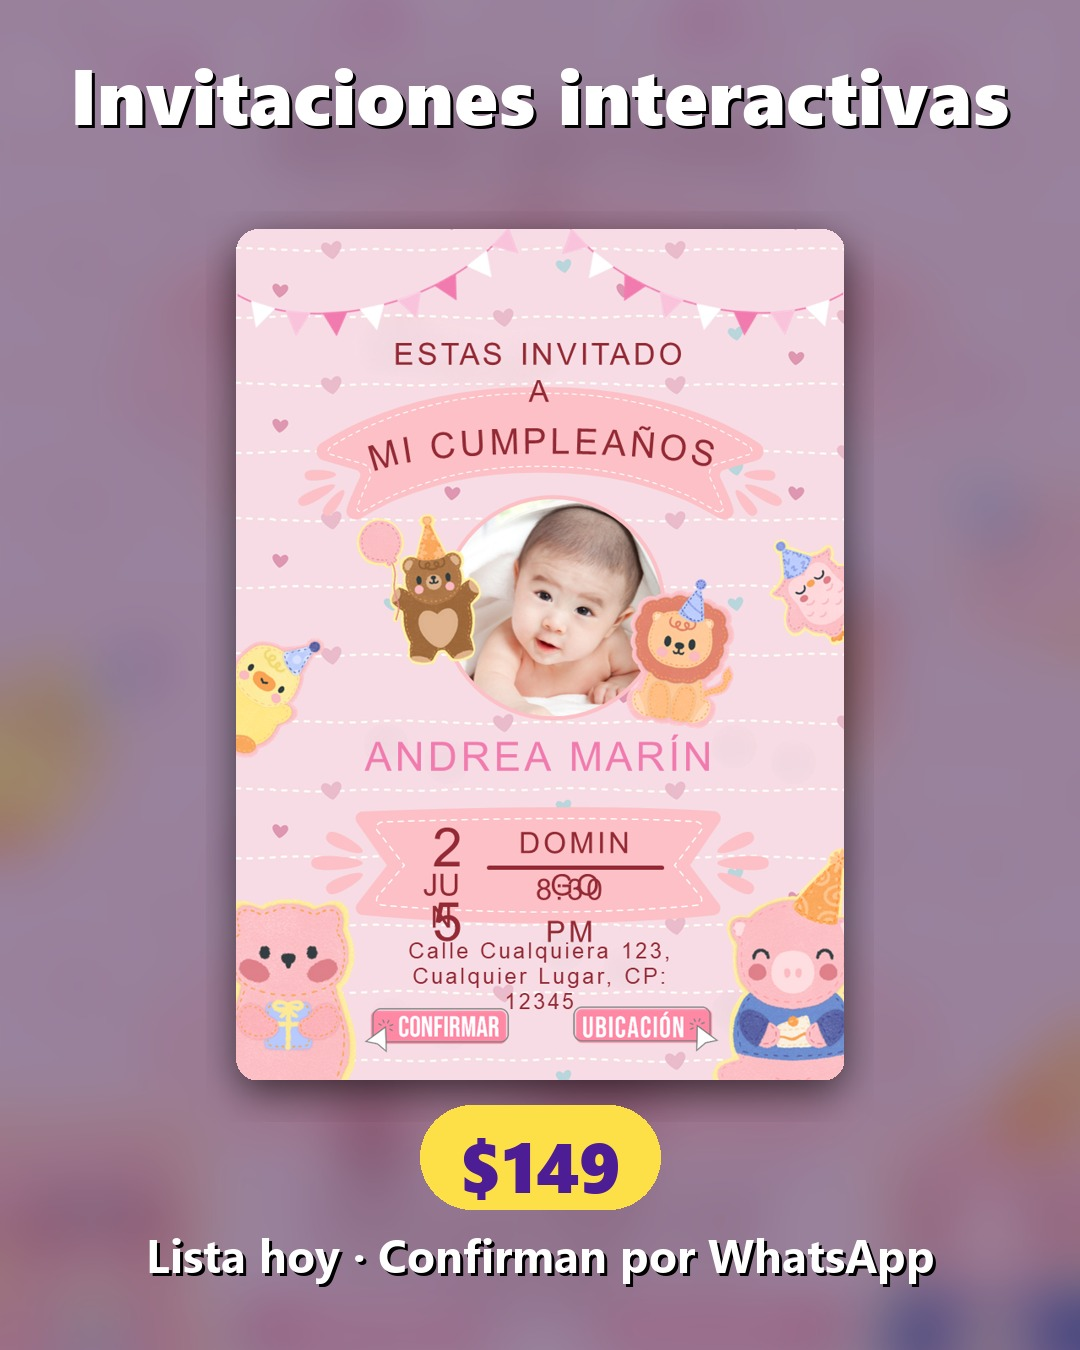
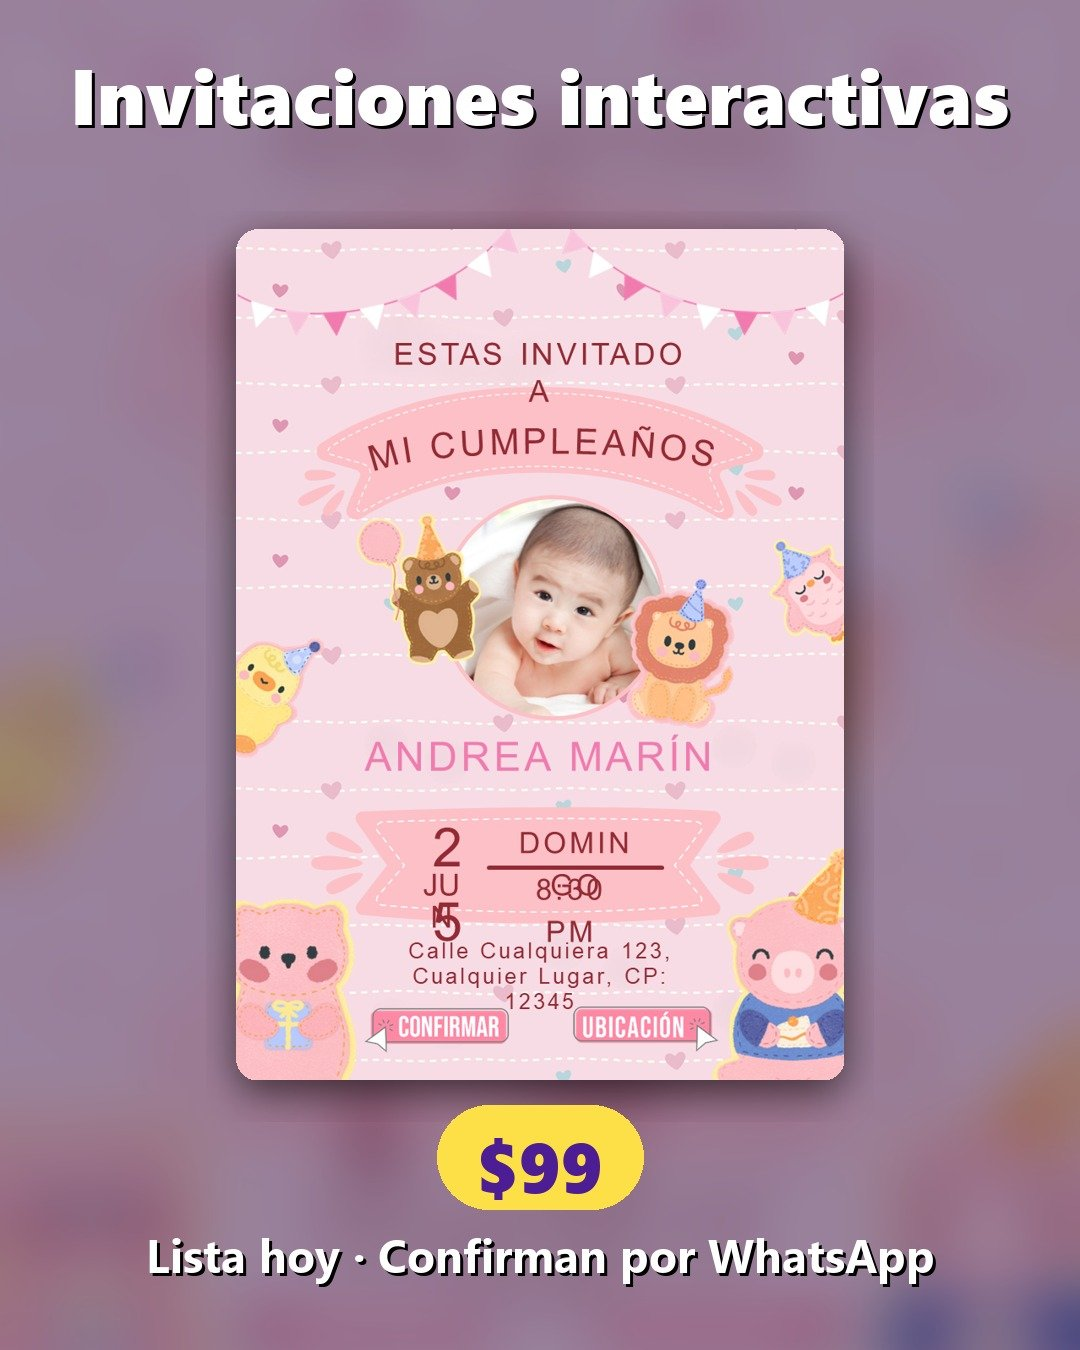
fix(invitaciones): boton rosa reproduce el demo, carrusel interactiva a $99 y sin recorte

Changed region(s): [[0.3667, 0.8089, 0.6111, 0.9022]]

diff --git a/src/modules/video-invitaciones/pages/VideoInvitaciones.tsx b/src/modules/video-invitaciones/pages/VideoInvitaciones.tsx
@@ -19,6 +19,15 @@ export const VideoInvitaciones: React.FC = () => {
 
   const [filtroDemo, setFiltroDemo] = useState<string>('todos');
   const [videoActivoId, setVideoActivoId] = useState<string | null>(null);
+  const demoVideoRefs = useRef<Record<string, HTMLVideoElement | null>>({});
+
+  const reproducirDemo = (id: string) => {
+    Object.entries(demoVideoRefs.current).forEach(([otroId, v]) => {
+      if (otroId !== id && v && !v.paused) v.pause();
+    });
+    setVideoActivoId(id);
+    demoVideoRefs.current[id]?.play().catch(() => {});
+  };
   const [faqAbierta, setFaqAbierta] = useState<number | null>(null);
 
   const toggleHeroSound = () => {
@@ -313,23 +322,25 @@ export const VideoInvitaciones: React.FC = () => {
                       src={item.url}
                       poster={item.poster}
                       className="w-full h-full object-cover"
+                      ref={(el) => { demoVideoRefs.current[item.id] = el; }}
                       controls={videoActivoId === item.id}
-                      autoPlay={videoActivoId === item.id}
                       loop
                       playsInline
-                      onPlay={() => setVideoActivoId(item.id)}
+                      preload="metadata"
+                      onPlay={() => reproducirDemo(item.id)}
                     />
                   ) : (
                     <img
                       src={item.url}
                       alt={item.titulo}
-                      className="w-full h-full object-cover group-hover:scale-105 transition-transform duration-500"
+                      className="w-full h-full object-contain bg-[#4c1d95] group-hover:scale-105 transition-transform duration-500"
                     />
                   )}
 
                   {item.tipo === 'video' && videoActivoId !== item.id && (
                     <button
-                      onClick={() => setVideoActivoId(item.id)}
+                      onClick={() => reproducirDemo(item.id)}
+                      aria-label={`Reproducir ${item.titulo}`}
                       className="absolute inset-0 m-auto w-14 h-14 rounded-full bg-pink-600 text-white flex items-center justify-center shadow-lg hover:scale-110 transition-transform"
                     >
                       <Play className="w-6 h-6 ml-1 fill-white" />
